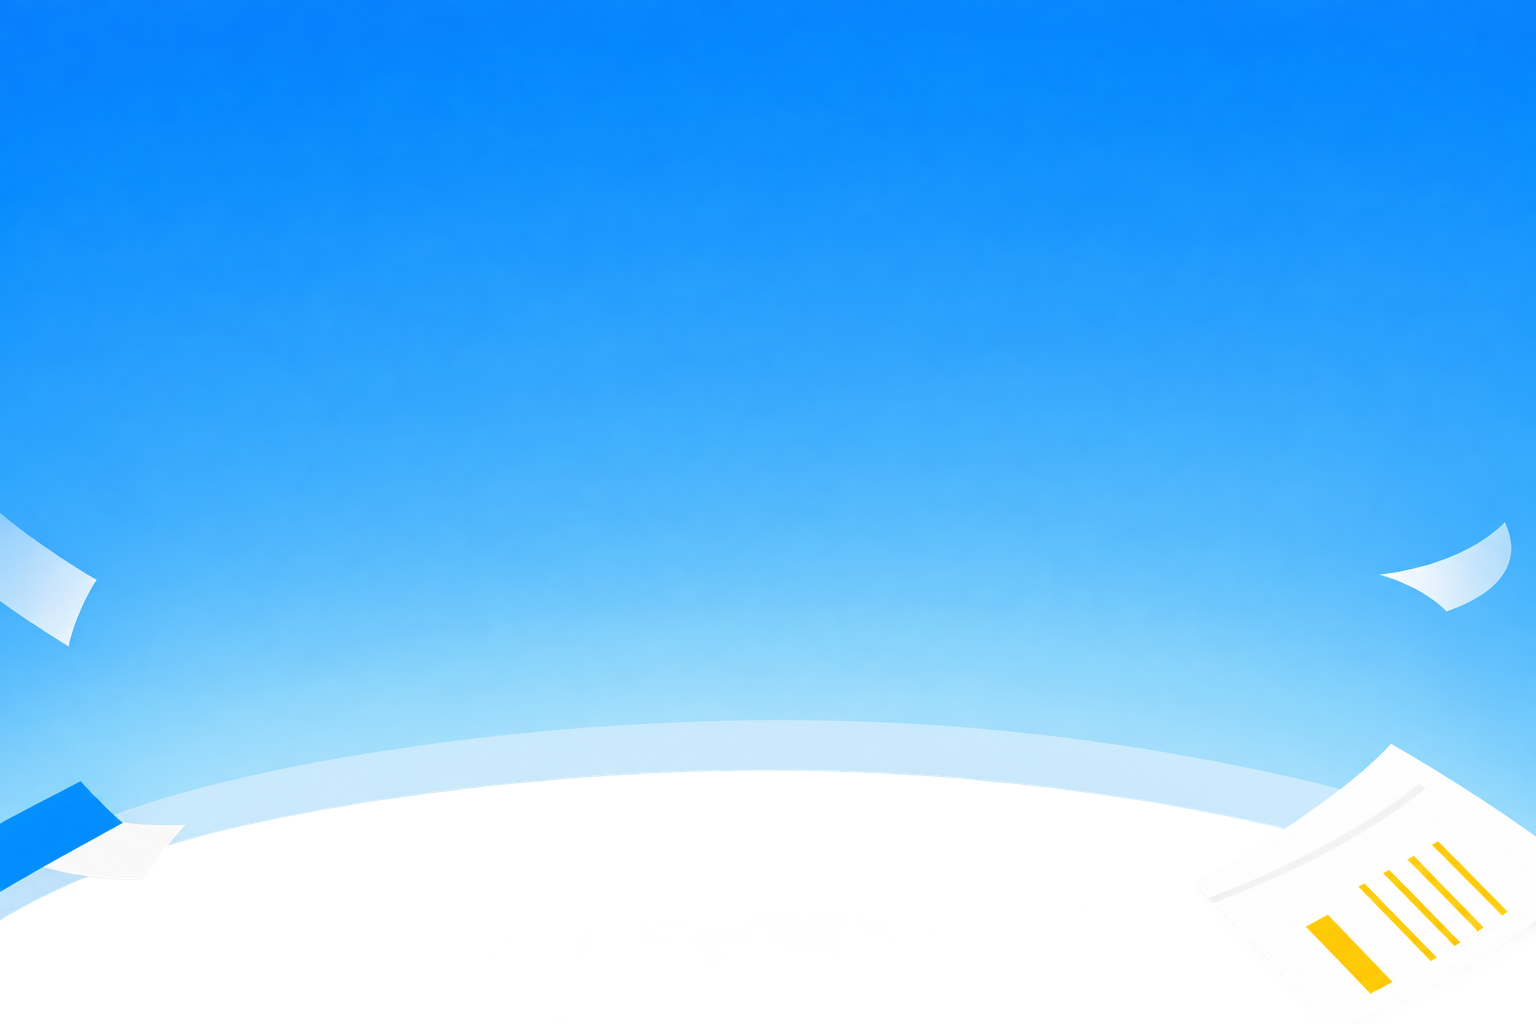
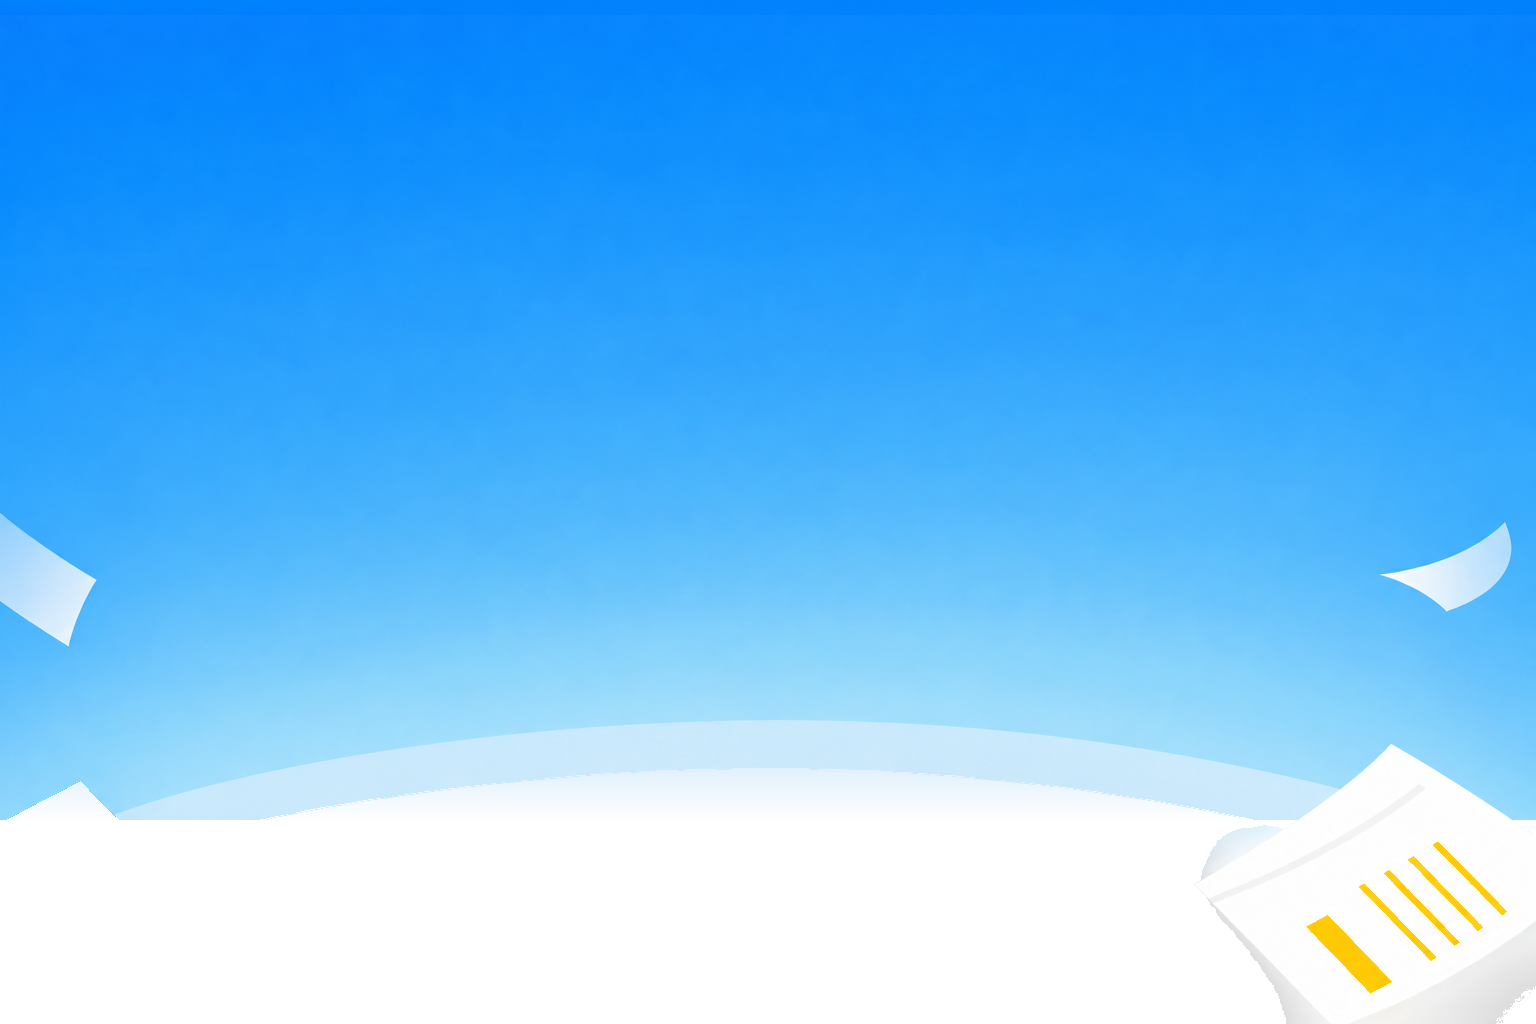
style: refine hero section and documents upload card UI for mobile layout

diff --git a/apps/printUserWebapp/src/components/hero-section.tsx b/apps/printUserWebapp/src/components/hero-section.tsx
@@ -13,13 +13,13 @@ export const HeroSection: React.FC<HeroSectionProps> = ({
   stickerText = 'Print it. Pick it. Done.',
 }) => {
   return (
-    <div className="relative w-full overflow-hidden select-none bg-[#0283fd] md:bg-gradient-to-b md:from-[#0283fd] md:via-[#0283fd] md:to-paper min-h-[320px] sm:min-h-[380px] md:min-h-[460px] lg:min-h-[500px]">
-      {/* 1. Mobile Background Image: completely fitted across width so no papers or elements are cropped */}
-      <div className="md:hidden absolute inset-x-0 bottom-0 w-full pointer-events-none z-0">
+    <div className="relative w-full overflow-hidden select-none bg-gradient-to-b from-[#0283fd] via-[#0283fd] to-paper pb-2 sm:pb-4 md:pb-6 min-h-[290px] sm:min-h-[360px] md:min-h-[460px] lg:min-h-[500px]">
+      {/* 1. Mobile Background Image: fitted from top so sky gradient starts at header and desk blends into white page */}
+      <div className="md:hidden absolute inset-x-0 top-0 w-full pointer-events-none z-0">
         <img
           src="/assets/hero-bg.png"
           alt=""
-          className="w-full h-auto object-contain object-bottom block"
+          className="w-full h-auto object-contain object-top block"
         />
       </div>
 
@@ -33,14 +33,14 @@ export const HeroSection: React.FC<HeroSectionProps> = ({
       </div>
 
       {/* 3. Hero Content Container */}
-      <div className="relative z-10 w-full max-w-[1200px] mx-auto flex flex-col items-center pt-2 sm:pt-4 md:pt-6 pb-6 px-4 sm:px-6 lg:px-8 text-center">
+      <div className="relative z-10 w-full max-w-[1200px] mx-auto flex flex-col items-center pt-2 sm:pt-4 md:pt-6 px-4 sm:px-6 lg:px-8 text-center">
         {/* Brand Title: CtrlP */}
-        <h1 className="font-heading text-[48px] sm:text-[60px] md:text-[72px] lg:text-[84px] text-paper tracking-[-0.02em] leading-none select-none drop-shadow-[0_2px_6px_rgba(0,0,0,0.18)]">
+        <h1 className="font-heading text-[44px] sm:text-[56px] md:text-[72px] lg:text-[84px] text-paper tracking-[-0.02em] leading-none select-none drop-shadow-[0_2px_6px_rgba(0,0,0,0.18)]">
           CtrlP
         </h1>
 
         {/* Playful Sticker */}
-        <div className="relative mt-2 sm:mt-2.5 inline-block">
+        <div className="relative mt-1.5 sm:mt-2.5 inline-block">
           <div className="transform rotate-[3deg] hover:rotate-0 transition-transform cursor-default">
             <span className="inline-flex items-center justify-center px-3.5 py-1 sm:px-5 sm:py-1.5 rounded-xl text-caption sm:text-body font-bold text-midnight bg-[#fde047] border border-[#eab308]/70 shadow-xs select-none">
               {isAvailable ? stickerText : 'Back soon'}
@@ -49,9 +49,9 @@ export const HeroSection: React.FC<HeroSectionProps> = ({
         </div>
 
         {/* 4. Scalable Printer & Scissors Stage */}
-        <div className="relative w-full max-w-[320px] sm:max-w-[420px] md:max-w-[500px] lg:max-w-[580px] h-[160px] sm:h-[200px] md:h-[240px] lg:h-[280px] mt-3 sm:mt-4 md:mt-6 flex items-center justify-center">
+        <div className="relative w-full max-w-[300px] sm:max-w-[380px] md:max-w-[500px] lg:max-w-[580px] h-[150px] sm:h-[185px] md:h-[240px] lg:h-[280px] mt-2 sm:mt-4 md:mt-6 flex items-center justify-center">
           {/* Covered Printer Image */}
-          <div className="relative z-10 w-[245px] sm:w-[320px] md:w-[390px] lg:w-[450px]">
+          <div className="relative z-10 w-[225px] sm:w-[290px] md:w-[390px] lg:w-[450px]">
             <img
               src="/assets/printer.png"
               alt="CtrlP Printer"
@@ -60,7 +60,7 @@ export const HeroSection: React.FC<HeroSectionProps> = ({
           </div>
 
           {/* Blue Scissors with Orange paper note on bottom-left */}
-          <div className="absolute left-0 sm:left-2 md:left-3 bottom-0 sm:bottom-1 z-20 w-[90px] sm:w-[115px] md:w-[140px] lg:w-[160px] pointer-events-none">
+          <div className="absolute left-1 sm:left-2 md:left-3 bottom-0 sm:bottom-1 z-20 w-[85px] sm:w-[110px] md:w-[140px] lg:w-[160px] pointer-events-none">
             <img
               src="/assets/scissors.png"
               alt="Craft scissors"

diff --git a/apps/printUserWebapp/src/components/documents-upload-card.tsx b/apps/printUserWebapp/src/components/documents-upload-card.tsx
@@ -46,9 +46,9 @@ export const DocumentsUploadCard: React.FC<DocumentsUploadCardProps> = ({
   };
 
   return (
-    <div className="w-full max-w-xl md:max-w-2xl lg:max-w-3xl mx-auto px-4 sm:px-6 mt-6 md:mt-8">
-      {/* 12px radius, flat border, paper surface */}
-      <div className="w-full bg-paper rounded-xl p-5 sm:p-7 md:p-8 border-2 border-graphite/15 shadow-xs">
+    <div className="w-full max-w-xl md:max-w-2xl lg:max-w-3xl mx-auto px-4 sm:px-6 mt-4 sm:mt-6 md:mt-8">
+      {/* Paper surface, rounded card, subtle border matching design */}
+      <div className="w-full bg-paper rounded-2xl p-5 sm:p-7 md:p-8 border border-graphite/20 shadow-xs">
         {/* Card Header & Collage Artwork */}
         <div className="flex items-start justify-between gap-4">
           <div className="flex-1 pr-1">
